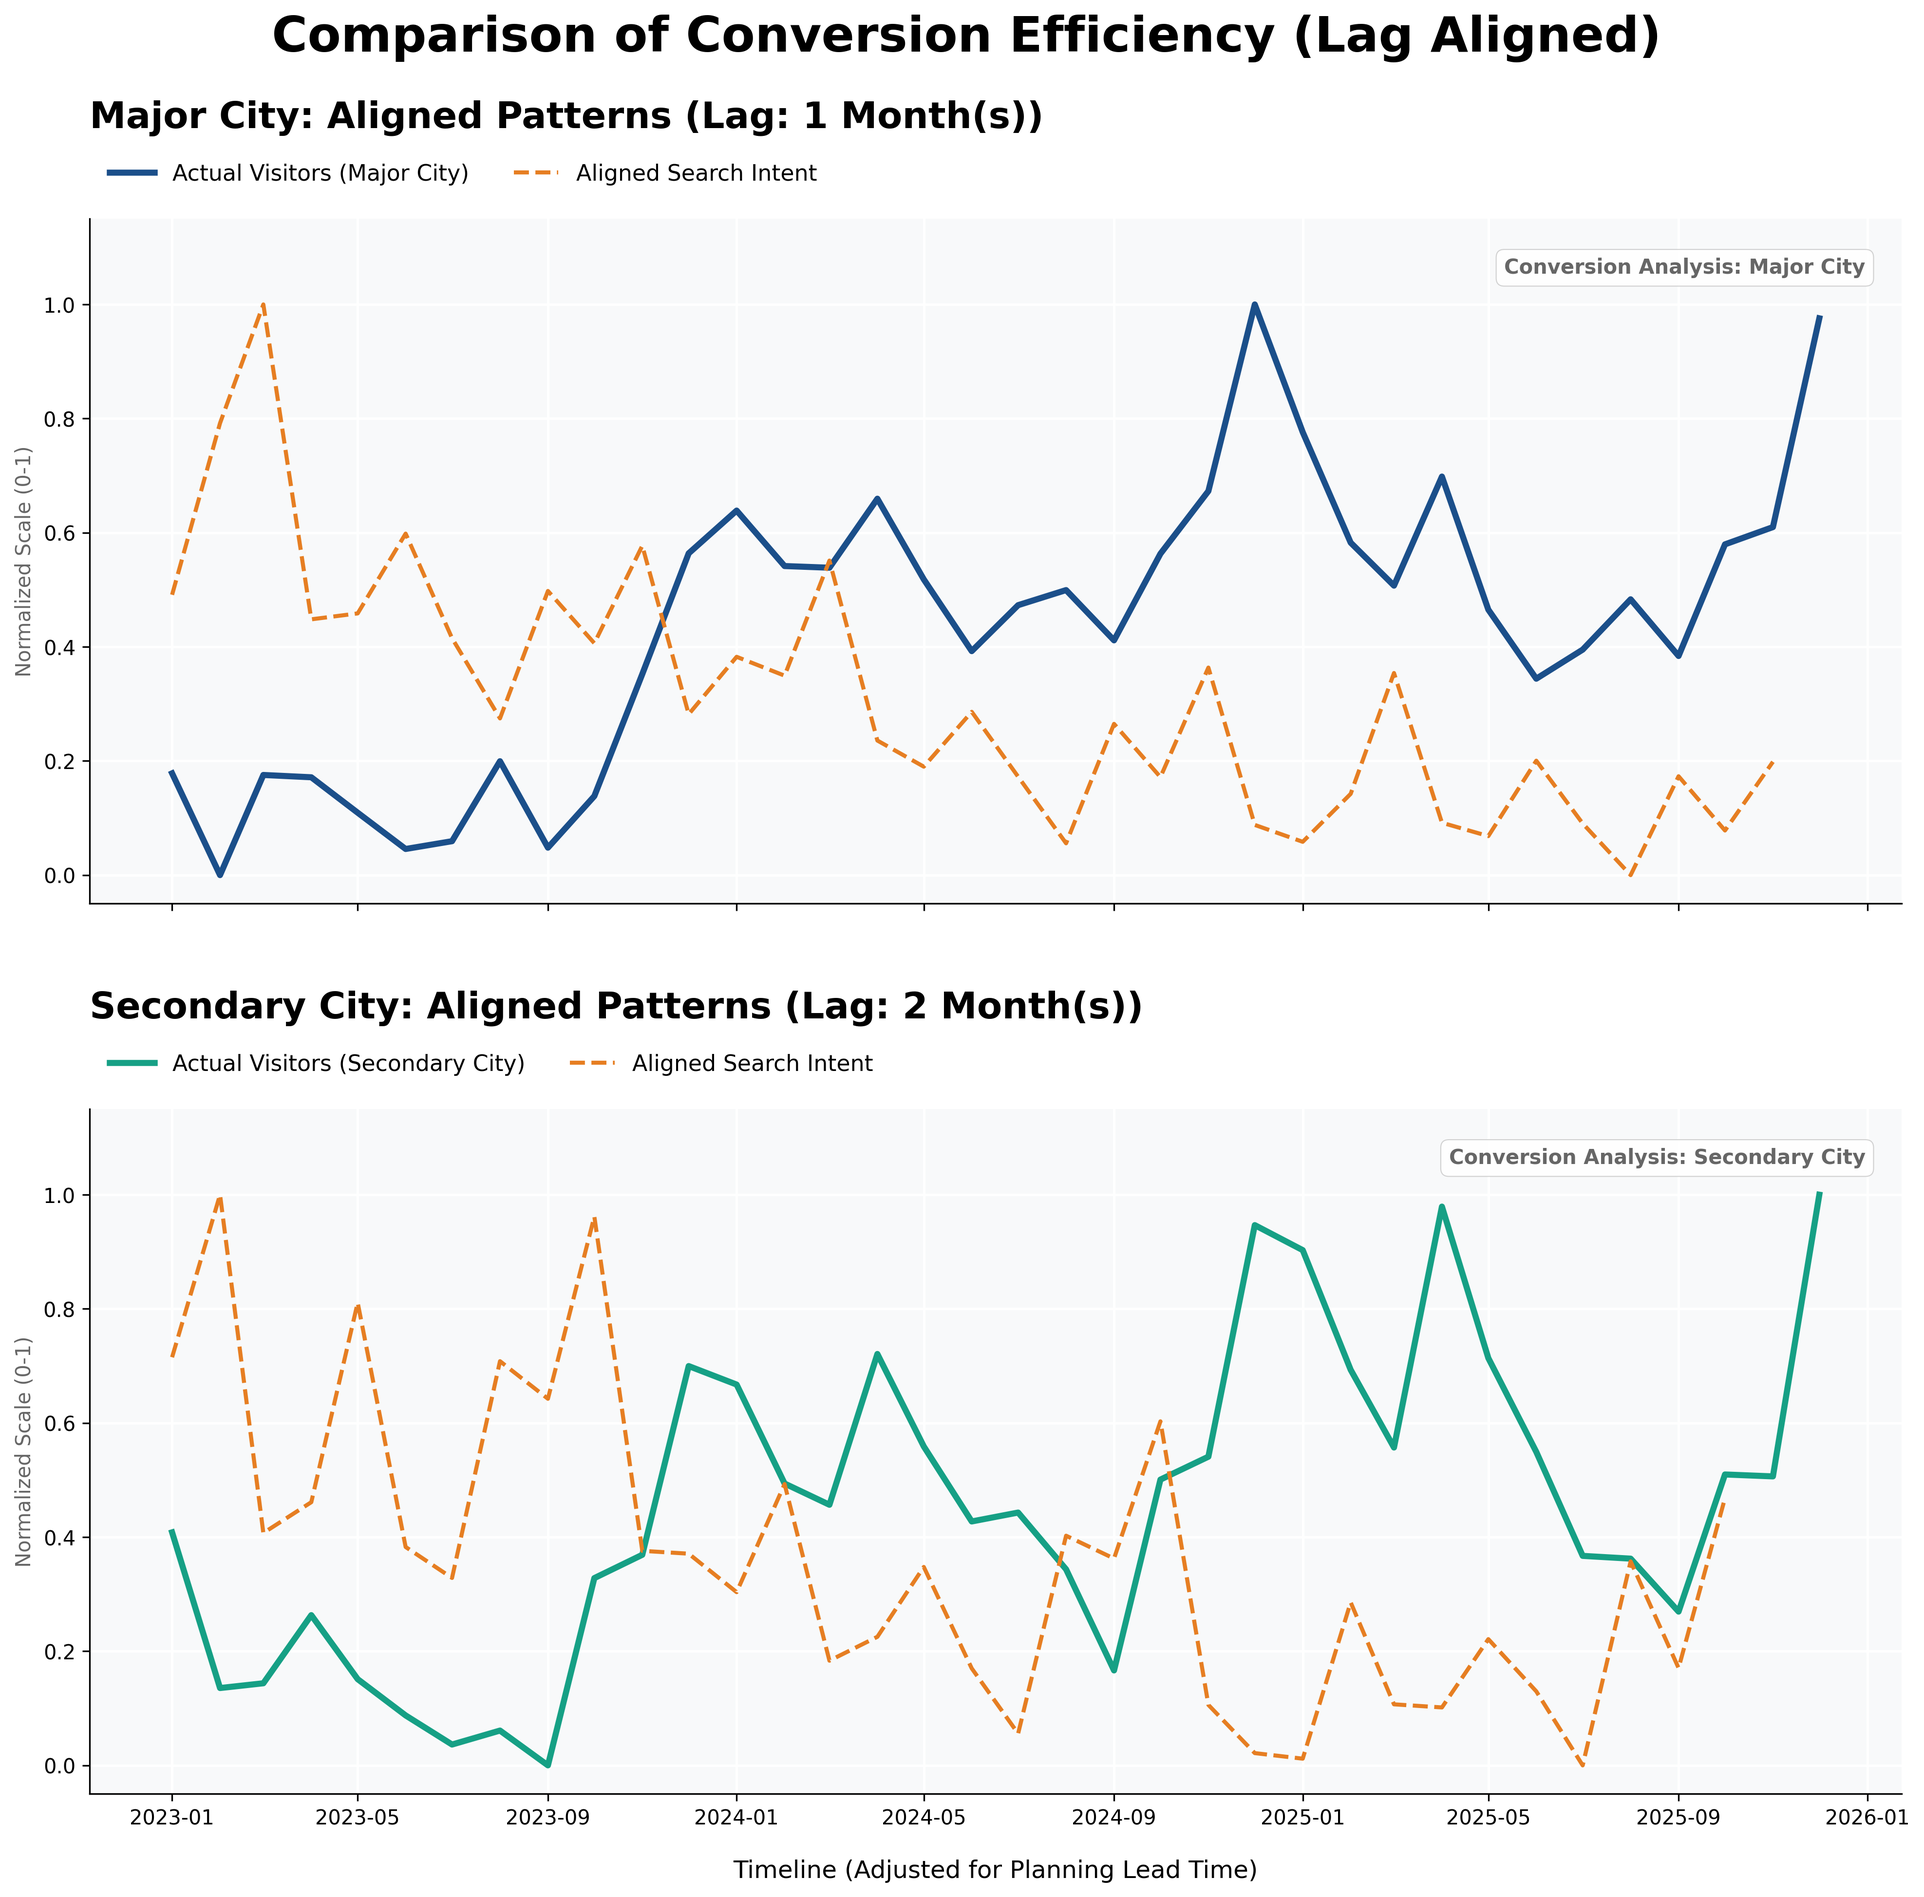
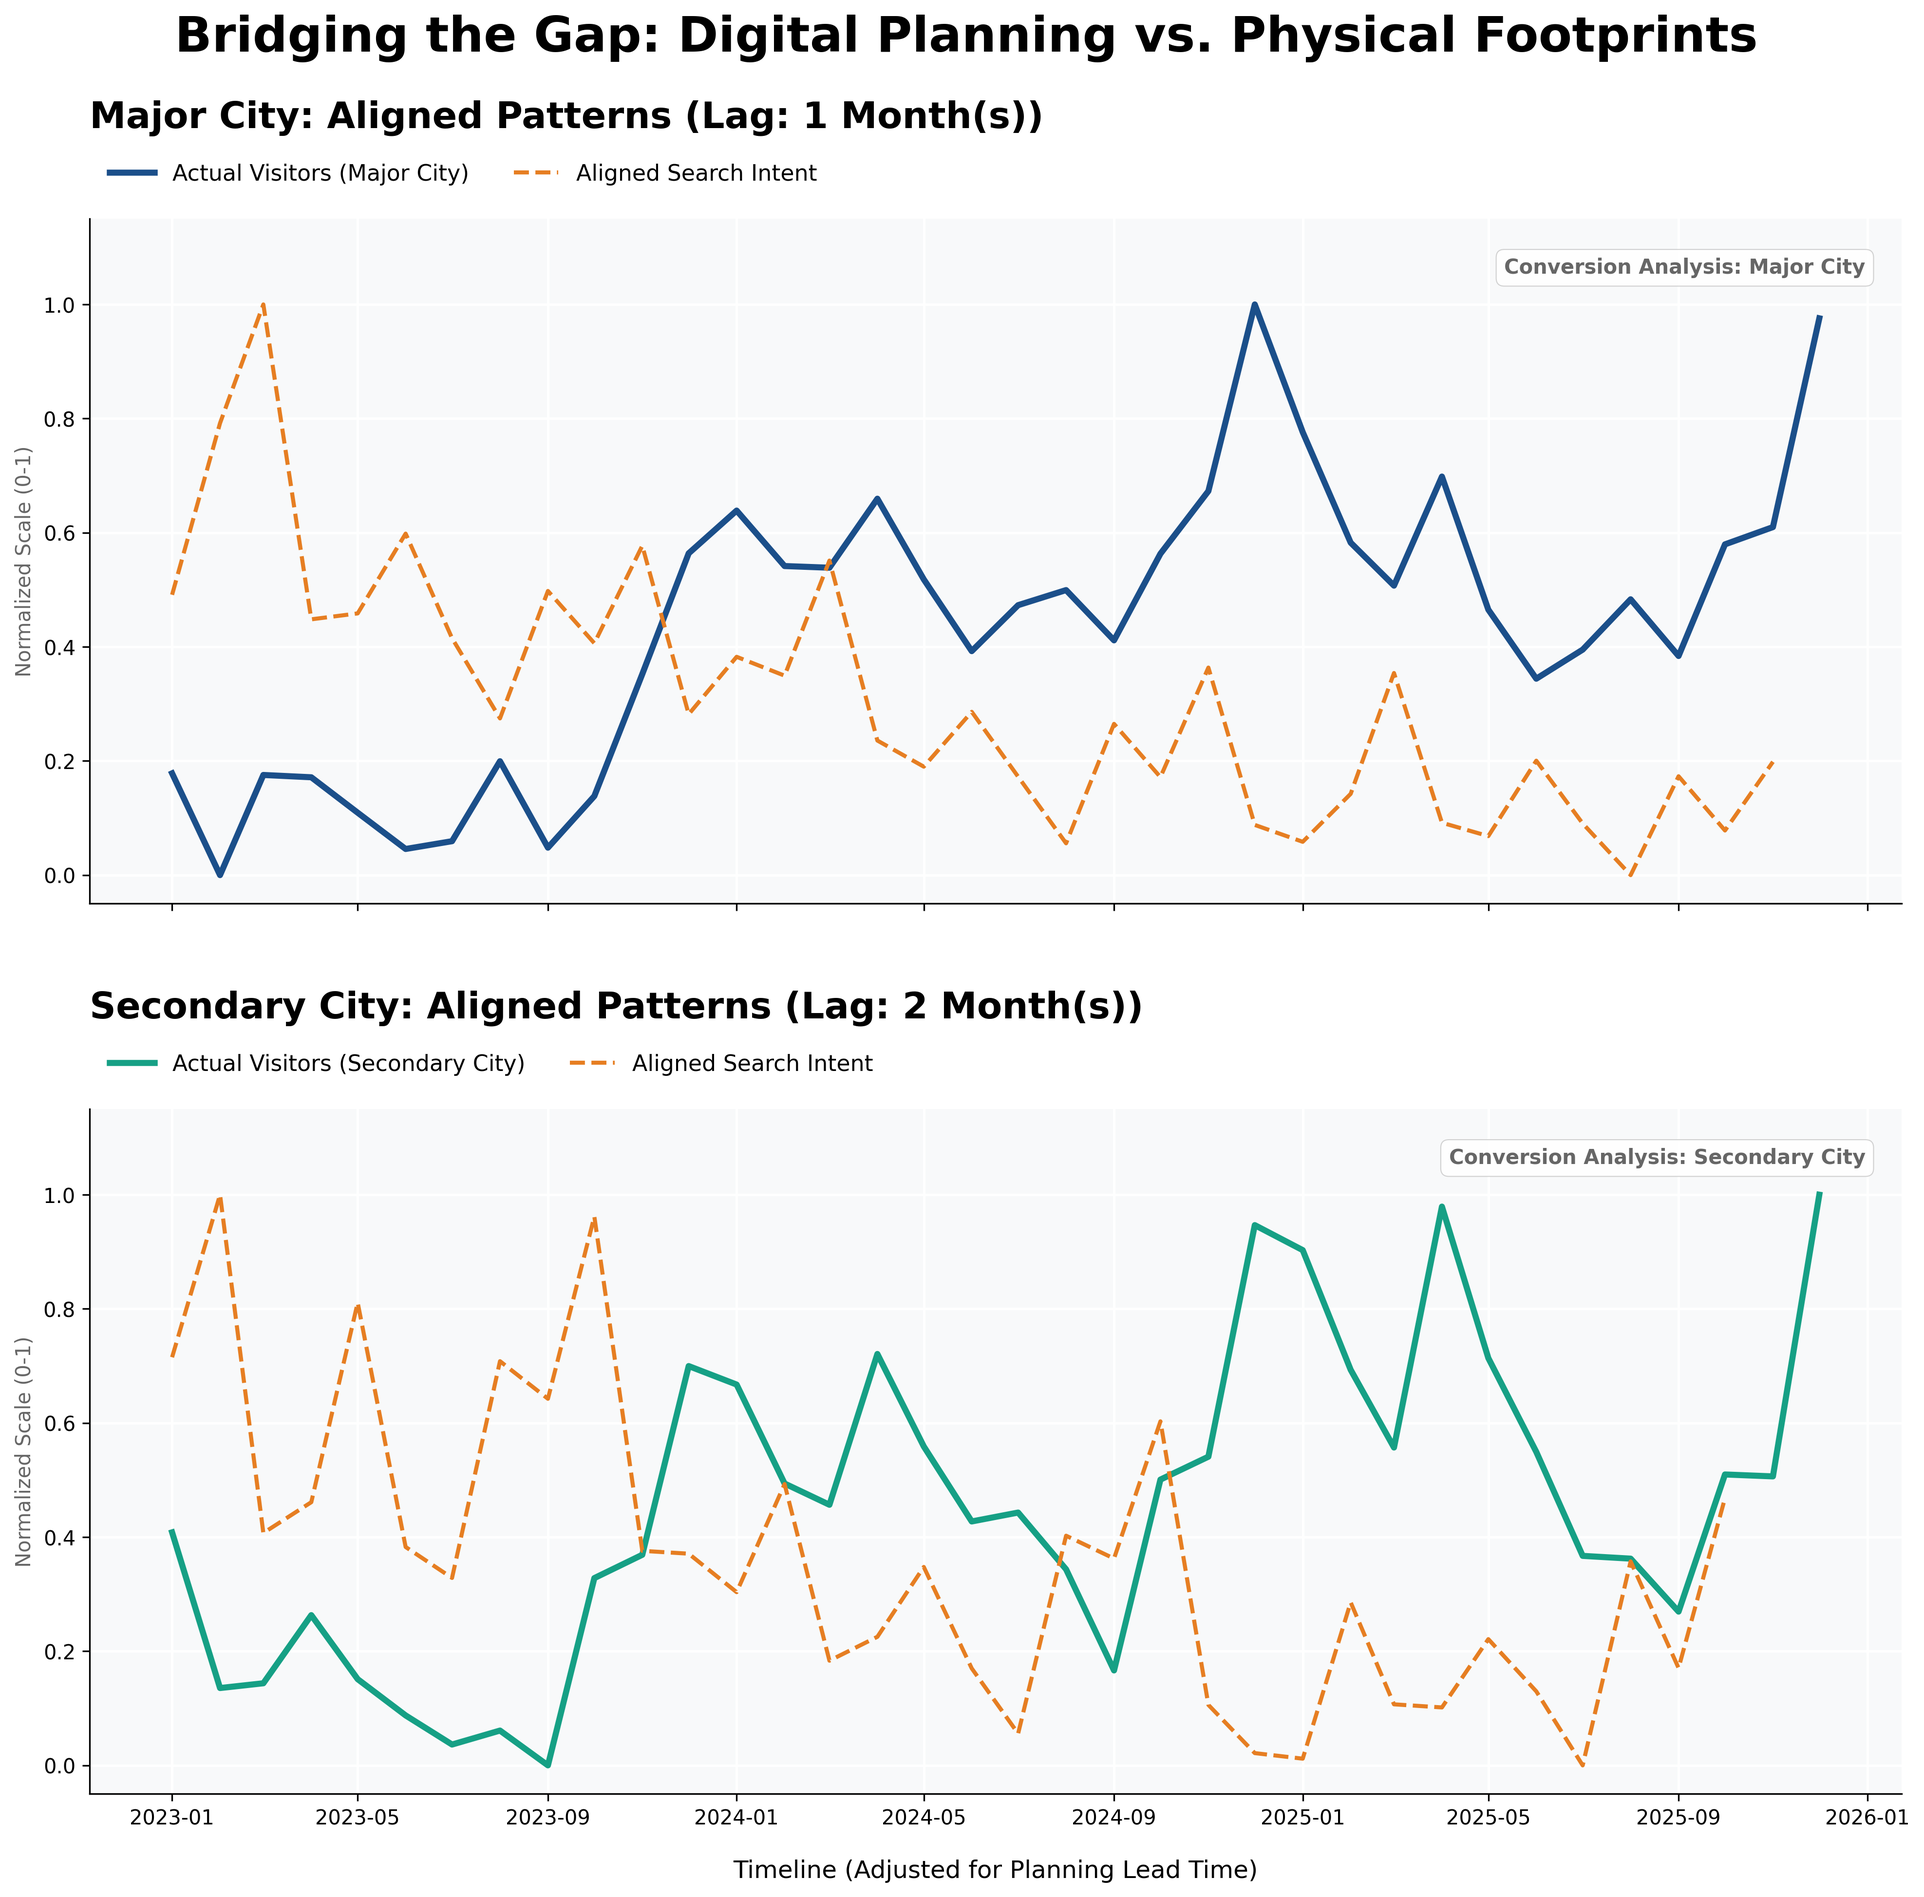
update cleaned data and script

Changed region(s): [[0.0934, 0.0, 0.903, 0.0311]]

diff --git a/visualizations/03_Intent_Comparison.py b/visualizations/03_Intent_Comparison.py
@@ -68,7 +68,7 @@ for ax, city_type, lag, city_color in configs:
     ax.set_ylim(-0.05, 1.15)
 
 plt.xlabel("Timeline (Adjusted for Planning Lead Time)", fontsize=12, labelpad=15)
-fig.suptitle("Comparison of Conversion Efficiency (Lag Aligned)", fontsize=24, fontweight='bold', y=0.98)
+fig.suptitle("Bridging the Gap: Digital Planning vs. Physical Footprints", fontsize=24, fontweight='bold', y=0.98)
 
 os.makedirs('visualizations', exist_ok=True)
 plt.savefig("visualizations/Figure 4_Lag_Aligned_Clean.png", dpi=300, bbox_inches='tight')

diff --git a/README.md b/README.md
@@ -105,47 +105,49 @@ This leads us to the next chapter of our story: **The Action.**
 ---
 
 # 03 : The Action — Momentum vs. Efficiency
-### *Predicting the Surge: Major vs. Secondary Decision Windows*
+### *Predicting the Surge: Decision Windows & Planning Cultures*
 
 ---
 
 ## 🔍 The Digital Spark: Aggregated Intent
-To understand the conversion efficiency of tourism demand, we analyze the **Total Search Intent** (Thai + English) against actual arrivals.
+In this chapter, we transition from observing historical arrivals to analyzing predictive behavior. By measuring **Total Search Intent** (combined Thai and English search volumes), we evaluate how effectively "Digital Interest" translates into "Physical Presence".
 
-### **Figure 4: Digital Intent Patterns (Lag Aligned)**
+### **Figure 4: Bridging the Gap: Digital Planning vs. Physical Footprints**
 ![Figure 4](visualizations/Figure%204_Lag_Aligned_Clean.png)
 
-By aligning search signals with physical arrivals, we uncover two distinct decision-making cultures:
+By performing **Lag Analysis** to find temporal correlations, we uncover two distinct decision-making cultures based on destination type:
 
-* **Major Cities (The Convenient Choice):** Exhibit a short **1-month lead time**. High familiarity allows for spontaneous trips and quick conversions.
-* **Secondary Cities (The Planned Adventure):** Exhibit a longer **2-month lead time**. Travelers require more time for "Discovery Research" before committing to an emerging destination.
-
-### **📈 Conversion Efficiency Insights**
-Using **Lag Alignment** (shifting the search intent to match arrival peaks), we can evaluate how effectively digital interest translates into local footprints:
-
-* **High Efficiency:** When the dashed intent line tightly tracks the solid visitor line, it indicates a high conversion rate.
-* **The Yield Gap:** Significant gaps between search peaks and arrival peaks in secondary cities suggest potential infrastructure bottlenecks (e.g., limited transport or accommodation) that prevent high interest from becoming actual visits.
-
-> **Strategy Note:** For secondary cities, marketing campaigns must be launched **at least 8 weeks** in advance to capture the peak planning phase.
+* **Major Cities (The Convenient Choice):** Exhibit a short **1-month lead time**. High familiarity and robust transportation infrastructure allow travelers to be "Spontaneous," traveling almost immediately after their initial digital search.
+* **Secondary Cities (The Planned Adventure):** Exhibit a longer **2-month lead time**. Travelers to emerging destinations act as "Explorers," requiring a significantly longer *Discovery Research* phase to plan logistics and experiences compared to established hubs.
 
 ---
-**Next in Series:** *04 : The Reality — Real Wealth Generation & Purchasing Power*
 
-## 🔍 The Digital Spark: Predicting the Next Wave
-Every physical trip begins with a digital search. By tracking Google Trends, we find that a city's **"Potential"** appears on a screen long before a traveler arrives at a hotel.
+## 📈 Conversion Efficiency & The Yield Gap
+We utilize **Lag Alignment** (shifting the search intent timeline to match arrival peaks) to measure true marketing efficiency:
 
-* **The 2-Month Warning:** Search interest for secondary cities often spikes **1–2 months** before actual arrivals peak. 
-* **Actionable Windows:** This "Digital Ripple" serves as an early warning system. It proves that the potential is there, waiting for local businesses to "capture" the value before the tourists physically arrive.
+* **High Efficiency:** When the dashed intent line tightly tracks the solid visitor line, it indicates a high-quality conversion rate—meaning digital interest is successfully turning into local footprints.
+* **The Yield Gap:** Significant gaps between search peaks and arrival peaks in secondary cities serve as a proxy for **"Lost Opportunities"** (Potential Bottlenecks). This suggests that while interest is high, factors like limited accommodation or difficult access may be preventing potential tourists from visiting.
+
+> **💡 Strategic Window:** To effectively capture the secondary city market, marketing campaigns must be launched **at least 8 weeks (2 months)** in advance to influence the peak planning phase.
+
+---
+
+## 🛠 Technical Logic: The Planning Lag
+To ensure the accuracy of the insights in Figure 4, we applied the following data science principles:
+
+1.  **Differentiated Lags:** We assigned specific lag values (1 month for Major / 2 months for Secondary) to reflect the real-world complexity of planning different types of trips.
+2.  **Forward Shift Alignment:** By applying a **Forward Shift** to the Search Intent data, we move the "Digital Signal" to align with "Arrival Peaks". This allows us to analyze **Conversion Quality** by removing the time variable from the comparison.
 
 ---
 
 ## 🎭 The Narrative Bridge
-The market share is shifting, and digital interest is surging. The **Potential** is undeniable. However, having people "interested" and having them "arrive" are two different challenges. This leads us to the next chapter of our story: **The Action.**
+We have proven that the **"Potential"** for secondary cities is real and measurable through Digital Search. However, the ultimate question for local economies remains: **Does this surge in visitors generate real, sustainable wealth?**
 
-How efficient are these cities at turning a "Google Search" into a "Real Visitor"? And who is driving this growth—domestic travelers or international guests?
+How does this revenue hold up against rising inflation and the cost of living? We find the answer in our final chapter: **04 : The Reality — Real Wealth Generation.**
 
 ---
-**Next in Series:** *03 : The Action — Conversion Efficiency and Tourist Diversity*
+**Next in Series:** *04 : The Reality — Real Wealth Generation & Purchasing Power*
+---
 
 ### **Figure 4: Visitor Share of Secondary Cities in National Tourism**
 ![Figure 4](visualizations/Figure%204.png)
